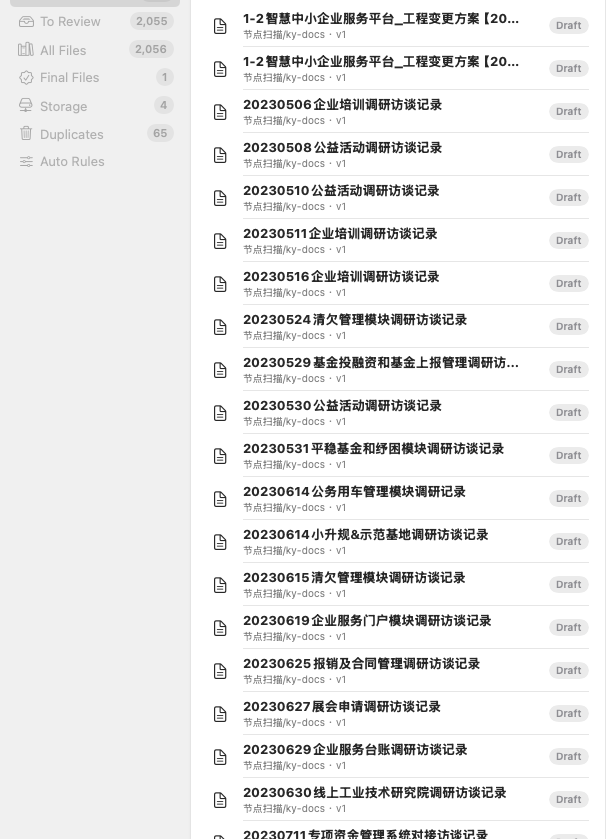
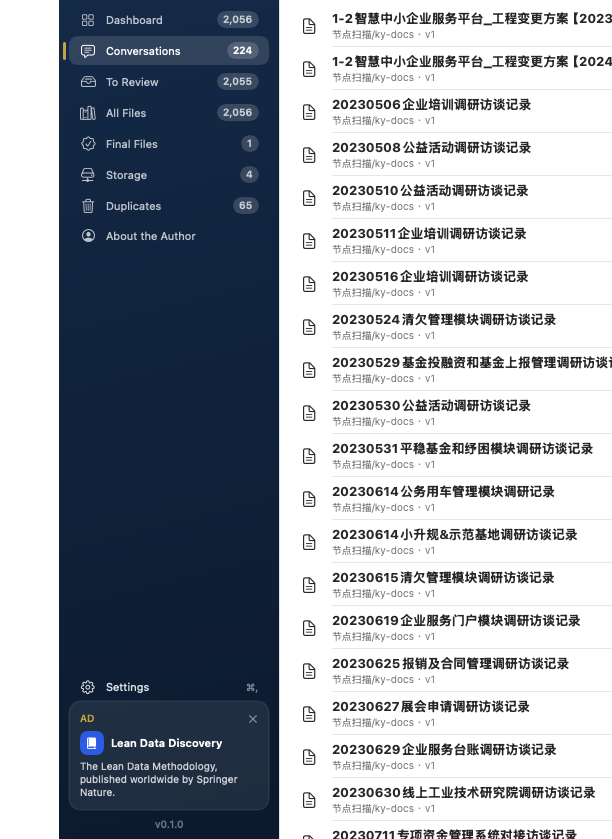
Settings hub (language+rules, permanent gear), advertiser onboarding section, installer download, screenshot refresh

diff --git a/macos/Sources/App.swift b/macos/Sources/App.swift
@@ -27,6 +27,11 @@ struct MM1031App: App {
         }
         .windowStyle(.titleBar)
 
+        Settings {
+            SettingsView()
+                .environmentObject(store)
+        }
+
         MenuBarExtra("LeanFile", systemImage: "archivebox.fill") {
             Button(L.t("menu.open")) {
                 NSApp.activate(ignoringOtherApps: true)
@@ -242,6 +247,26 @@ final class Store: ObservableObject {
         reload()
     }
 
+    /// Load rule settings + cleanup preview for the Settings window,
+    /// which can be opened without visiting the rules section.
+    func refreshRules() {
+        queue.async { [weak self] in
+            guard let self, let db = self.db else { return }
+            var merged = [
+                "stale_versions_enabled": "0", "stale_versions_days": "30",
+                "dedup_enabled": "0", "ephemeral_enabled": "0",
+                "quarantine_retention_days": "30",
+            ]
+            for (k, v) in db.settings() { merged[k] = v }
+            let preview = db.cleanupPreview(
+                staleDays: Int(merged["stale_versions_days"] ?? "30") ?? 30)
+            DispatchQueue.main.async {
+                self.rules = merged
+                self.cleanupPreview = preview
+            }
+        }
+    }
+
     func openDrill(title: String, category: String? = nil, type: String? = nil,
                    protect: Bool = false, finals: Bool = false) {
         drillTitle = title
@@ -416,12 +441,18 @@ struct ContentView: View {
                     SidebarView(badge: badge)
                 } content: {
                     contentColumn
+                        .navigationSplitViewColumnWidth(
+                            min: 320, ideal: 430, max: 600)
                 } detail: {
-                    if store.detailShowsDrill {
-                        DrillView()
-                    } else {
-                        inspector
+                    Group {
+                        if store.detailShowsDrill {
+                            DrillView()
+                        } else {
+                            inspector
+                        }
                     }
+                    .navigationSplitViewColumnWidth(
+                        min: 280, ideal: 380, max: 560)
                 }
             }
         }
@@ -1128,8 +1159,6 @@ struct DrillTile: View {
 // MARK: - About the author
 
 struct AboutView: View {
-    @EnvironmentObject var store: Store
-    @AppStorage("mm1031.lang") private var langPref = ""
 
     private var feedbackURL: URL {
         var c = URLComponents(string: "mailto:sky.kugua@gmail.com")!
@@ -1150,16 +1179,6 @@ struct AboutView: View {
 
     var body: some View {
         Form {
-            SwiftUI.Section("语言 Language") {
-                Picker("语言 Language", selection: $langPref) {
-                    Text("跟随系统 System").tag("")
-                    Text("中文").tag("zh")
-                    Text("English").tag("en")
-                }
-                .pickerStyle(.segmented)
-                .labelsHidden()
-                .onChange(of: langPref) { _, _ in store.langTick += 1 }
-            }
             SwiftUI.Section {
                 HStack(spacing: 16) {
                     Image(nsImage: NSApplication.shared.applicationIconImage)
@@ -1277,7 +1296,7 @@ enum AdService {
                 titleZh: "赞助位招租", titleEn: "Your product here",
                 textZh: "这个位置也可以是你的产品——赞助 LeanFile，触达 AI 文件管理用户。",
                 textEn: "This slot can carry your product — sponsor LeanFile and reach AI-era file users.",
-                url: "mailto:sky.kugua@gmail.com"),
+                url: "https://sky791016.github.io/LeanFile/#advertise"),
     ]
 
     static func fetchRemote(_ done: @escaping ([AdEntry]) -> Void) {
@@ -1354,6 +1373,7 @@ struct AdCard: View {
 struct SidebarView: View {
     @EnvironmentObject var store: Store
     let badge: (Section) -> Int
+    @Environment(\.openSettings) private var openSettings
 
     var body: some View {
         VStack(spacing: 0) {
@@ -1372,7 +1392,7 @@ struct SidebarView: View {
             .padding(.bottom, 10)
 
             VStack(spacing: 2) {
-                ForEach(Section.allCases) { s in
+                ForEach(Section.allCases.filter { $0 != .rules }) { s in
                     Button { store.select(section: s) } label: {
                         HStack(spacing: 9) {
                             Image(systemName: s.icon).frame(width: 18)
@@ -1410,6 +1430,24 @@ struct SidebarView: View {
             .padding(.horizontal, 10)
 
             Spacer()
+            // PERMANENT settings entry: hard-wired into the sidebar.
+            // No setting may hide it — if it could disappear, the user
+            // would have no way back into Settings.
+            Button { openSettings() } label: {
+                HStack(spacing: 9) {
+                    Image(systemName: "gearshape").frame(width: 18)
+                    Text(L.t("settings.title")).font(.subheadline)
+                    Spacer()
+                    Text("⌘,")
+                        .font(.caption2)
+                        .foregroundStyle(.white.opacity(0.45))
+                }
+                .foregroundStyle(.white.opacity(0.88))
+                .padding(.horizontal, 10)
+                .padding(.vertical, 6)
+            }
+            .buttonStyle(.plain)
+            .padding(.horizontal, 10)
             AdCard().padding(.horizontal, 10)
             Text("v0.1.0")
                 .font(.caption2)
@@ -1418,6 +1456,52 @@ struct SidebarView: View {
         }
         .background(navyGradient)
         .navigationSplitViewColumnWidth(min: 200, ideal: 220)
+    }
+}
+
+// MARK: - Settings window
+
+struct SettingsView: View {
+    @EnvironmentObject var store: Store
+
+    var body: some View {
+        TabView {
+            GeneralSettingsView()
+                .tabItem {
+                    Label(L.t("settings.general"), systemImage: "gearshape")
+                }
+            RulesView()
+                .tabItem {
+                    Label(L.t("section.rules"),
+                          systemImage: "slider.horizontal.3")
+                }
+        }
+        .frame(width: 580, height: 500)
+        .onAppear { store.refreshRules() }
+    }
+}
+
+struct GeneralSettingsView: View {
+    @EnvironmentObject var store: Store
+    @AppStorage("mm1031.lang") private var langPref = ""
+
+    var body: some View {
+        Form {
+            SwiftUI.Section("语言 Language") {
+                Picker("语言 Language", selection: $langPref) {
+                    Text("跟随系统 System").tag("")
+                    Text("中文").tag("zh")
+                    Text("English").tag("en")
+                }
+                .pickerStyle(.segmented)
+                .labelsHidden()
+                .onChange(of: langPref) { _, _ in store.langTick += 1 }
+            }
+            SwiftUI.Section {
+                LabeledContent("LeanFile", value: "v0.1.0 · MM1031")
+            }
+        }
+        .formStyle(.grouped)
     }
 }
 
@@ -1466,6 +1550,19 @@ private enum SelfShot {
         await wait(1.5); snap("shot-about.png")
         store.select(section: .rules)
         await wait(1.5); snap("shot-rules.png")
+        let mainWin = NSApp.windows.first(where: { $0.contentView != nil })
+        NSApp.sendAction(Selector(("showSettingsWindow:")), to: nil, from: nil)
+        await wait(1.4)
+        if let sw = NSApp.windows.first(where: {
+               $0 != mainWin && $0.contentView != nil
+               && $0.frame.width > 400 && $0.frame.width < 900 }),
+           let view = sw.contentView,
+           let rep = view.bitmapImageRepForCachingDisplay(in: view.bounds) {
+            view.cacheDisplay(in: view.bounds, to: rep)
+            if let data = rep.representation(using: .png, properties: [:]) {
+                try? data.write(to: URL(fileURLWithPath: dir + "/shot-settings.png"))
+            }
+        }
         store.select(section: .dashboard)
     }
 }

diff --git a/docs/index.html b/docs/index.html
@@ -174,7 +174,9 @@
 
 <section id="shots">
   <div class="wrap">
-    <h2 data-i18n="sponsor.title":"赞助 LeanFile","sponsor.lede":"LeanFile 免费开源，由史凯（Kai Shi）开发。如果它帮你找回过哪怕一个文件，请他喝杯咖啡就是最好的支持——两档任选，支付方式陆续开通：","sponsor.usd.p":"一次性赞助，美元。","sponsor.cny.p":"一次性赞助，人民币。","sponsor.btn":"通过 GitHub 赞助","sponsor.more.t":"更多方式，陆续开通","sponsor.more.p":"GitHub Sponsors 先行；Stripe、微信支付、支付宝的直接付款链接将在各自通道开通后出现在这里。点赞也有用——它告诉下一个人：这个工具是真的。","sponsor.star":"给仓库点 Star",
+    <h2 data-i18n="start.dl":"下载安装包（.pkg）",
+    "adv.title":"广告合作","adv.lede":"你的产品，出现在每一位 LeanFile 用户窗口的左下角——一张用户干活时真的会看到的小卡片，明码标注广告，可以关掉，永不弹窗。","adv.c1t":"广告位","adv.c1p":"侧栏卡片，18 秒轮换，全体用户可见。标注「广告」，一键隐藏（本次会话）。没有跟踪像素，没有小动作。","adv.c2t":"规格","adv.c2p":"标题 14 字以内，文案 50 字以内，一个落地链接，一个图标和配色。你发文字，剩下的我们来。","adv.c3t":"首发合作价","adv.c3p":"早期合作伙伴价格：体验周 ¥99，标准月 ¥499，季度 ¥1,299。早期用户，早期价格。","adv.how":"怎么接入：1）发邮件给品牌、标题、文案、链接和投放周期；2）一天内审核——误导性和灰产产品不接；3）微信或支付宝付款，24 小时内通过远程配置上线，不用等应用发版。现阶段用户量处于早期，你买的是 crowd 之前的价格。","adv.btn":"发邮件申请",
+    "sponsor.title":"赞助 LeanFile","sponsor.lede":"LeanFile 免费开源，由史凯（Kai Shi）开发。如果它帮你找回过哪怕一个文件，请他喝杯咖啡就是最好的支持——两档任选，支付方式陆续开通：","sponsor.usd.p":"一次性赞助，美元。","sponsor.cny.p":"一次性赞助，人民币。","sponsor.btn":"通过 GitHub 赞助","sponsor.more.t":"更多方式，陆续开通","sponsor.more.p":"GitHub Sponsors 先行；Stripe、微信支付、支付宝的直接付款链接将在各自通道开通后出现在这里。点赞也有用——它告诉下一个人：这个工具是真的。","sponsor.star":"给仓库点 Star",
     "shots.title">The real thing</h2>
     <p class="lede" data-i18n="shots.lede">Screenshots from the running app, on its first user's live registry — 2,056 files:</p>
     <div class="shots">
@@ -240,6 +242,20 @@
   </div>
 </section>
 
+<section id="advertise">
+  <div class="wrap">
+    <h2 data-i18n="adv.title">Advertise with LeanFile</h2>
+    <p class="lede" data-i18n="adv.lede">Your product, in the bottom-left of every LeanFile window — a small card users actually see while they work, honestly labeled, closable, never a pop-up.</p>
+    <div class="cards">
+      <div class="card"><h3 data-i18n="adv.c1t">The slot</h3><p data-i18n="adv.c1p">Sidebar card, 18-second rotation, shown to every user. Labeled AD, one-click to hide for the session. No tracking pixels, no funny business.</p></div>
+      <div class="card"><h3 data-i18n="adv.c2t">Specs</h3><p data-i18n="adv.c2p">Title up to 14 characters, text up to 50, one landing URL, an icon and accent color. You send words; we handle the rest.</p></div>
+      <div class="card"><h3 data-i18n="adv.c3t">Launch pricing</h3><p data-i18n="adv.c3p">Early-partner rates: ¥99 for a trial week, ¥499 per month, ¥1,299 per quarter. Early audience, early prices.</p></div>
+    </div>
+    <p class="lede" data-i18n="adv.how">How it works: 1) Email your brand, title, text, URL and dates. 2) We review within a day — no misleading or gray-area products. 3) Pay by WeChat or Alipay; your card goes live within 24 hours via remote config — no app update needed. Audience is early-stage: you are buying in before the crowd.</p>
+    <p><a class="btn" href="mailto:sky.kugua@gmail.com?subject=LeanFile%20%E5%B9%BF%E5%91%8A%E5%90%88%E4%BD%9C%20%2F%20Advertising&body=%E5%93%81%E7%89%8C%EF%BC%9A%0A%E6%A0%87%E9%A2%98%EF%BC%88%E2%89%A414%E5%AD%97%EF%BC%89%EF%BC%9A%0A%E6%96%87%E6%A1%88%EF%BC%88%E2%89%A450%E5%AD%97%EF%BC%89%EF%BC%9A%0A%E8%90%BD%E5%9C%B0%E9%93%BE%E6%8E%A5%EF%BC%9A%0A%E6%8A%95%E6%94%BE%E5%91%A8%E6%9C%9F%EF%BC%9A" data-i18n="adv.btn">Apply by email</a></p>
+  </div>
+</section>
+
 <section id="start">
   <div class="wrap">
     <h2 data-i18n="start.title">Quick start</h2>
@@ -253,6 +269,7 @@ python3 -m mm1031.cli --db leanfile.db protect-run --yes  <span class="c"># back
 
 <span class="c"># macOS app</span>
 cd macos &amp;&amp; ./build.sh &amp;&amp; open build/LeanFile.app</pre>
+    <p><a class="btn" href="https://github.com/sky791016/LeanFile/releases/download/v0.1.0/LeanFile-0.1.0.pkg" data-i18n="start.dl">Download the installer (.pkg)</a></p>
   </div>
 </section>
 

diff --git a/README.md b/README.md
@@ -171,6 +171,20 @@ Real captures from the running app (the first user's live registry:
 ![Auto rules](docs/img/shots/en/pub-rules.png)
 *Auto rules — off by default; you switch on what LeanFile may do.*
 
+## What's new in the app
+
+- **Settings window (⌘,)**: language (System / 中文 / English) and all
+  auto rules in one place. The gear button that opens it lives
+  permanently in the sidebar — it can never be hidden away.
+- **A tech reskin**: navy brand sidebar, dashboard brand band, stat
+  cards with icon chips, gradient breakdown bars, a navy author card.
+- **Sidebar ad card**: a small, labeled, closable card in the
+  bottom-left, remote-configured from `docs/ads.json` — house ads and
+  a sponsor slot today; advertisers onboard by email (see the site's
+  Advertise section), live within 24 hours, no app update needed.
+- **Installer**: [LeanFile-0.1.0.pkg](https://github.com/sky791016/LeanFile/releases/download/v0.1.0/LeanFile-0.1.0.pkg)
+  installs the app to /Applications and registers login auto-start.
+
 ## Architecture
 
 - **Core engine (Python, platform-independent)** — content-hash
